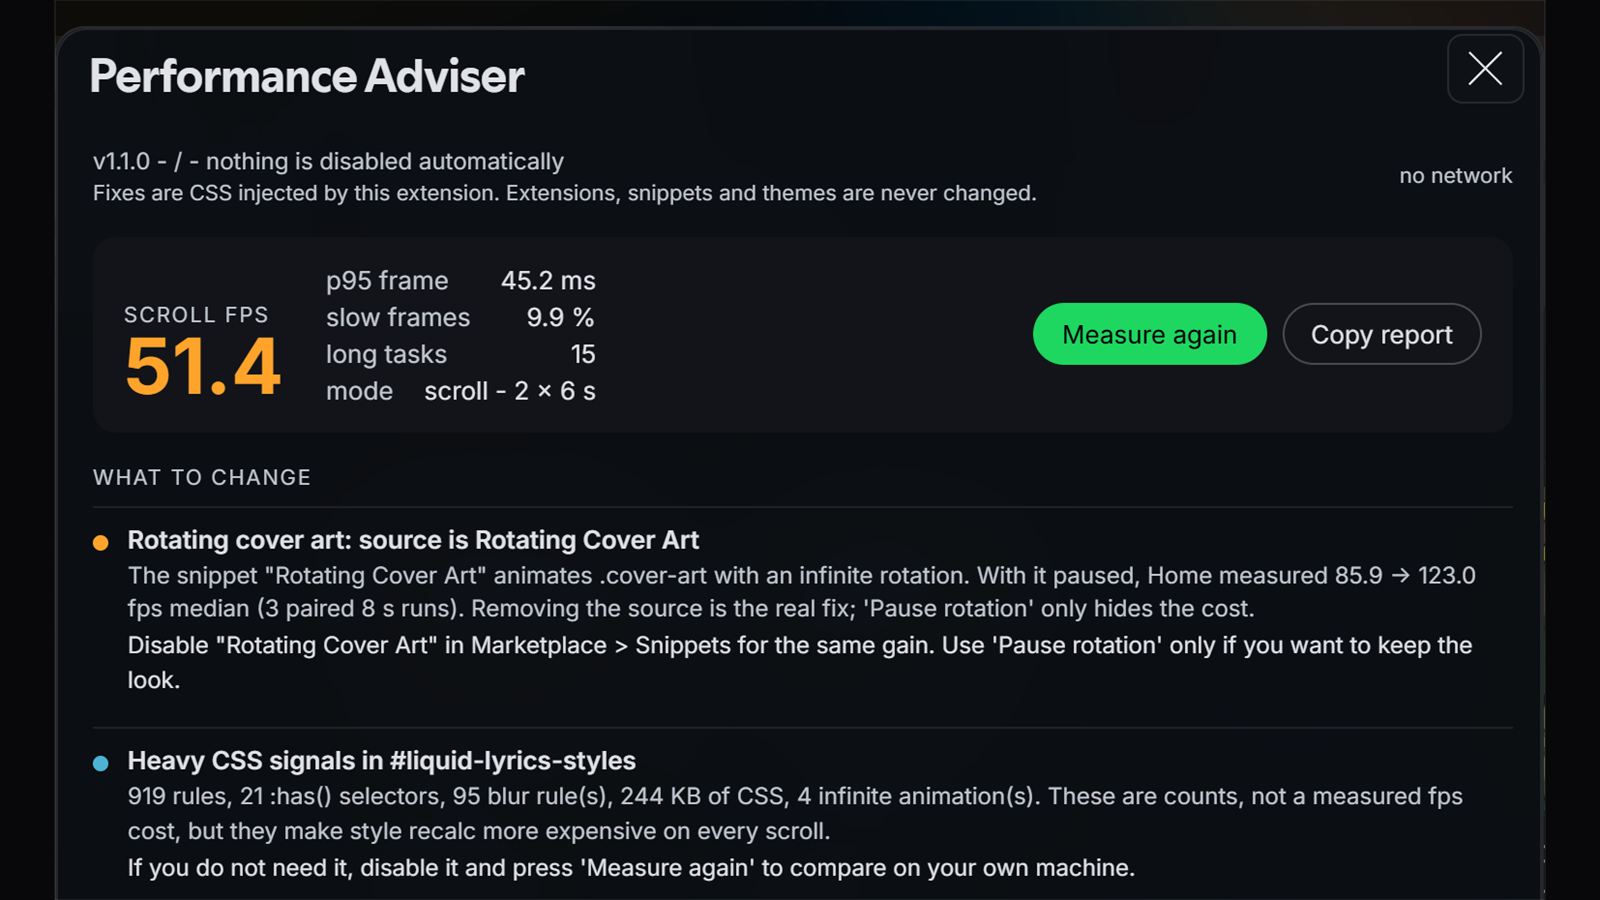
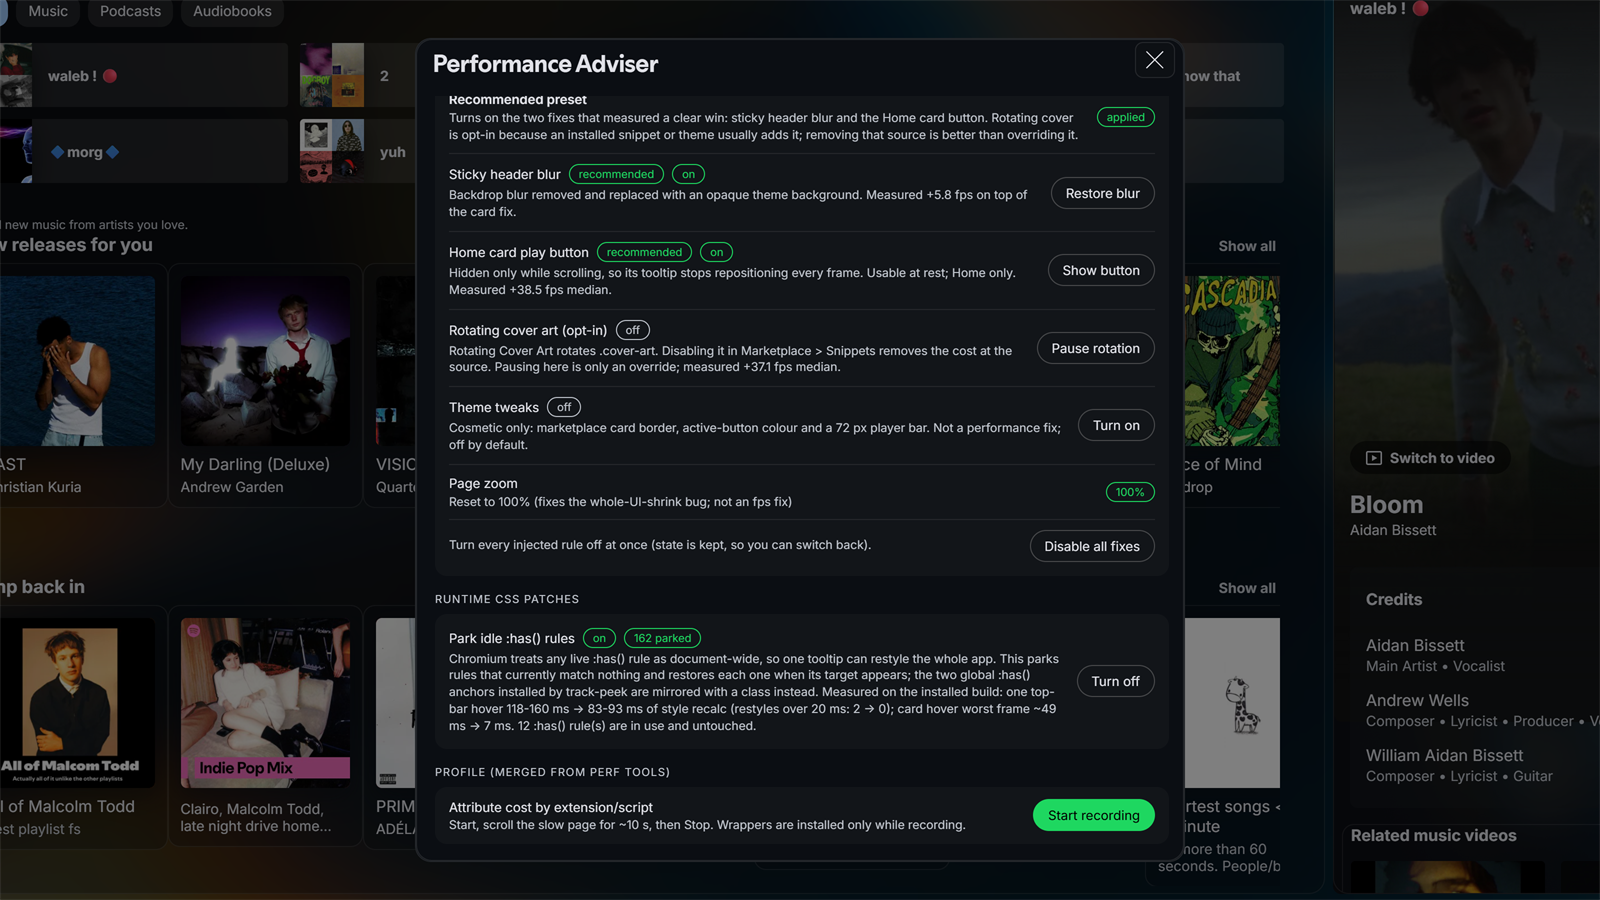
Increase the panel surface opacity and refresh the Marketplace preview

diff --git a/perf-adviser.js b/perf-adviser.js
@@ -50,6 +50,19 @@
   const STATE_KEY = "perf-adviser:state";
   const FIX_ID = "perf-adviser-fixes";
   const SCROLL_CLASS = "perf-adviser-scrolling";
+  const PANEL_ID = "perf-adviser-panel-style";
+  const PANEL_MODAL = "perf-adviser-modal";
+
+  // The panel uses Spotify's PopupModal, whose surface is translucent
+  // (rgba(...,.7) plus a backdrop blur in Lucid). While our panel is open we
+  // give both modal layers an opaque version of that same theme colour, so text
+  // stays readable over any page behind it. Scoped to our own modal only.
+  const PANEL_CSS = `
+.${PANEL_MODAL} {
+  background-color: var(--perf-adviser-surface, #121212) !important;
+  backdrop-filter: none !important;
+}
+`;
 
   // ---------------------------------------------------------------- CSS blocks
   // Each fix is a separate block so it can be measured and disabled on its own.
@@ -178,6 +191,61 @@
     document.documentElement.classList.remove(SCROLL_CLASS);
   }
   applyInjectedFixes();
+
+  // ------------------------------------------------------- panel surface
+  // Spotify's PopupModal surface is translucent (rgba(...,.7) + a 32 px blur in
+  // Lucid). Reuse its own colour at full alpha so the panel matches the theme
+  // but stays readable over whatever page is behind it. Scoped to our modal.
+  function ensurePanelStyle() {
+    if (document.getElementById(PANEL_ID)) return;
+    const el = document.createElement("style");
+    el.id = PANEL_ID;
+    el.textContent = PANEL_CSS;
+    (document.head || document.documentElement).appendChild(el);
+  }
+
+  // Opaque version of whatever surface colour the theme gives this modal.
+  function surfaceColor(modal) {
+    const cs = getComputedStyle(modal);
+    const trip = (cs.getPropertyValue("--clr-surface-rgb") || "").trim();
+    if (/^\d{1,3}\s*,\s*\d{1,3}\s*,\s*\d{1,3}$/.test(trip)) return "rgb(" + trip + ")";
+    const parse = (v) => {
+      const m = /rgba?\(([^)]+)\)/.exec(v || "");
+      if (!m) return null;
+      const p = m[1].split(",").map((x) => parseFloat(x));
+      if (p.length < 3 || (p.length > 3 && p[3] < 0.01)) return null;
+      return "rgb(" + Math.round(p[0]) + "," + Math.round(p[1]) + "," + Math.round(p[2]) + ")";
+    };
+    return parse(cs.backgroundColor) ||
+      parse(cs.getPropertyValue("--spice-main")) ||
+      parse(cs.getPropertyValue("--spice-card")) ||
+      "#121212";
+  }
+
+  function skinModal(attempt) {
+    const nodes = document.querySelectorAll(".GenericModal.spicetify-popup");
+    const modal = nodes[nodes.length - 1];
+    // PopupModal may mount a tick after display() returns; wait for our content.
+    if (!modal || !(modal.textContent || "").includes("Runtime CSS patches")) {
+      if ((attempt || 0) < 10) setTimeout(() => skinModal((attempt || 0) + 1), 60);
+      return;
+    }
+    ensurePanelStyle();
+    for (const el of document.querySelectorAll("." + PANEL_MODAL)) el.classList.remove(PANEL_MODAL);
+    const color = surfaceColor(modal);
+    modal.style.setProperty("--perf-adviser-surface", color);
+    modal.classList.add(PANEL_MODAL);
+    // The theme sets its translucent surface with a higher-specificity
+    // !important :has() rule, so an inline !important declaration is needed.
+    modal.style.setProperty("background-color", color, "important");
+    modal.style.setProperty("backdrop-filter", "none", "important");
+    const inner = modal.querySelector(".spicetify-popup-container");
+    if (inner) {
+      inner.style.setProperty("background-color", color, "important");
+      inner.style.setProperty("backdrop-filter", "none", "important");
+      inner.classList.add(PANEL_MODAL);
+    }
+  }
 
   // ------------------------------------------------------- runtime CSS patches
   // Chromium's :has() invalidation is document-wide: while any live :has() rule
@@ -1870,6 +1938,7 @@
     root.appendChild(foot);
 
     Spicetify.PopupModal.display({ title: "Performance Adviser", content: root, isLarge: true });
+    skinModal();
   }
 
   async function refresh() {
